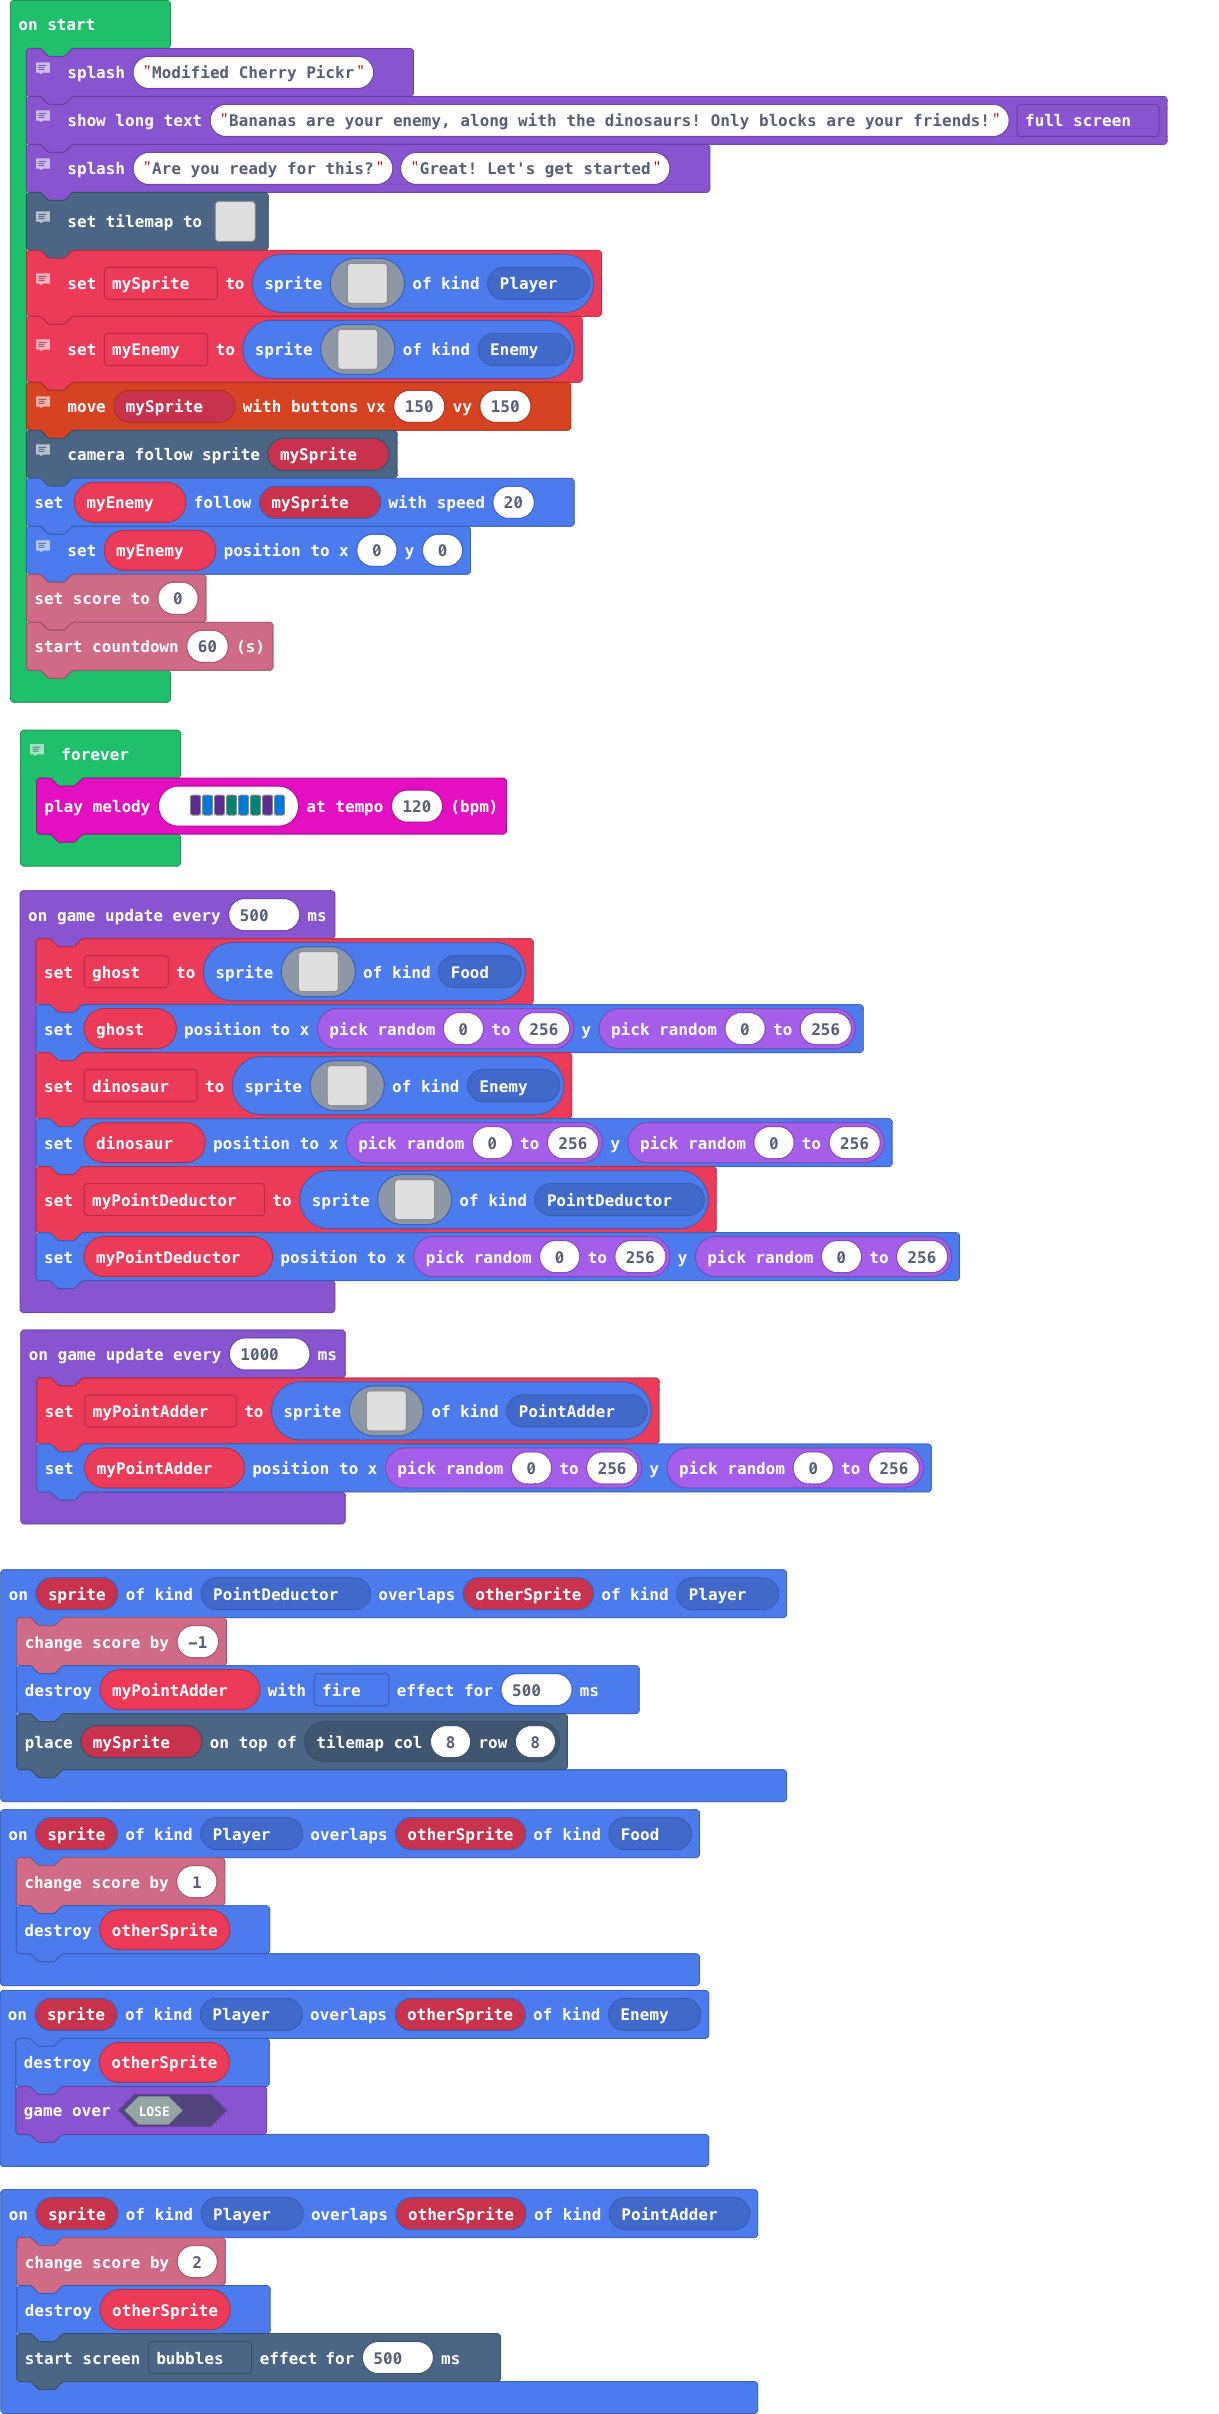
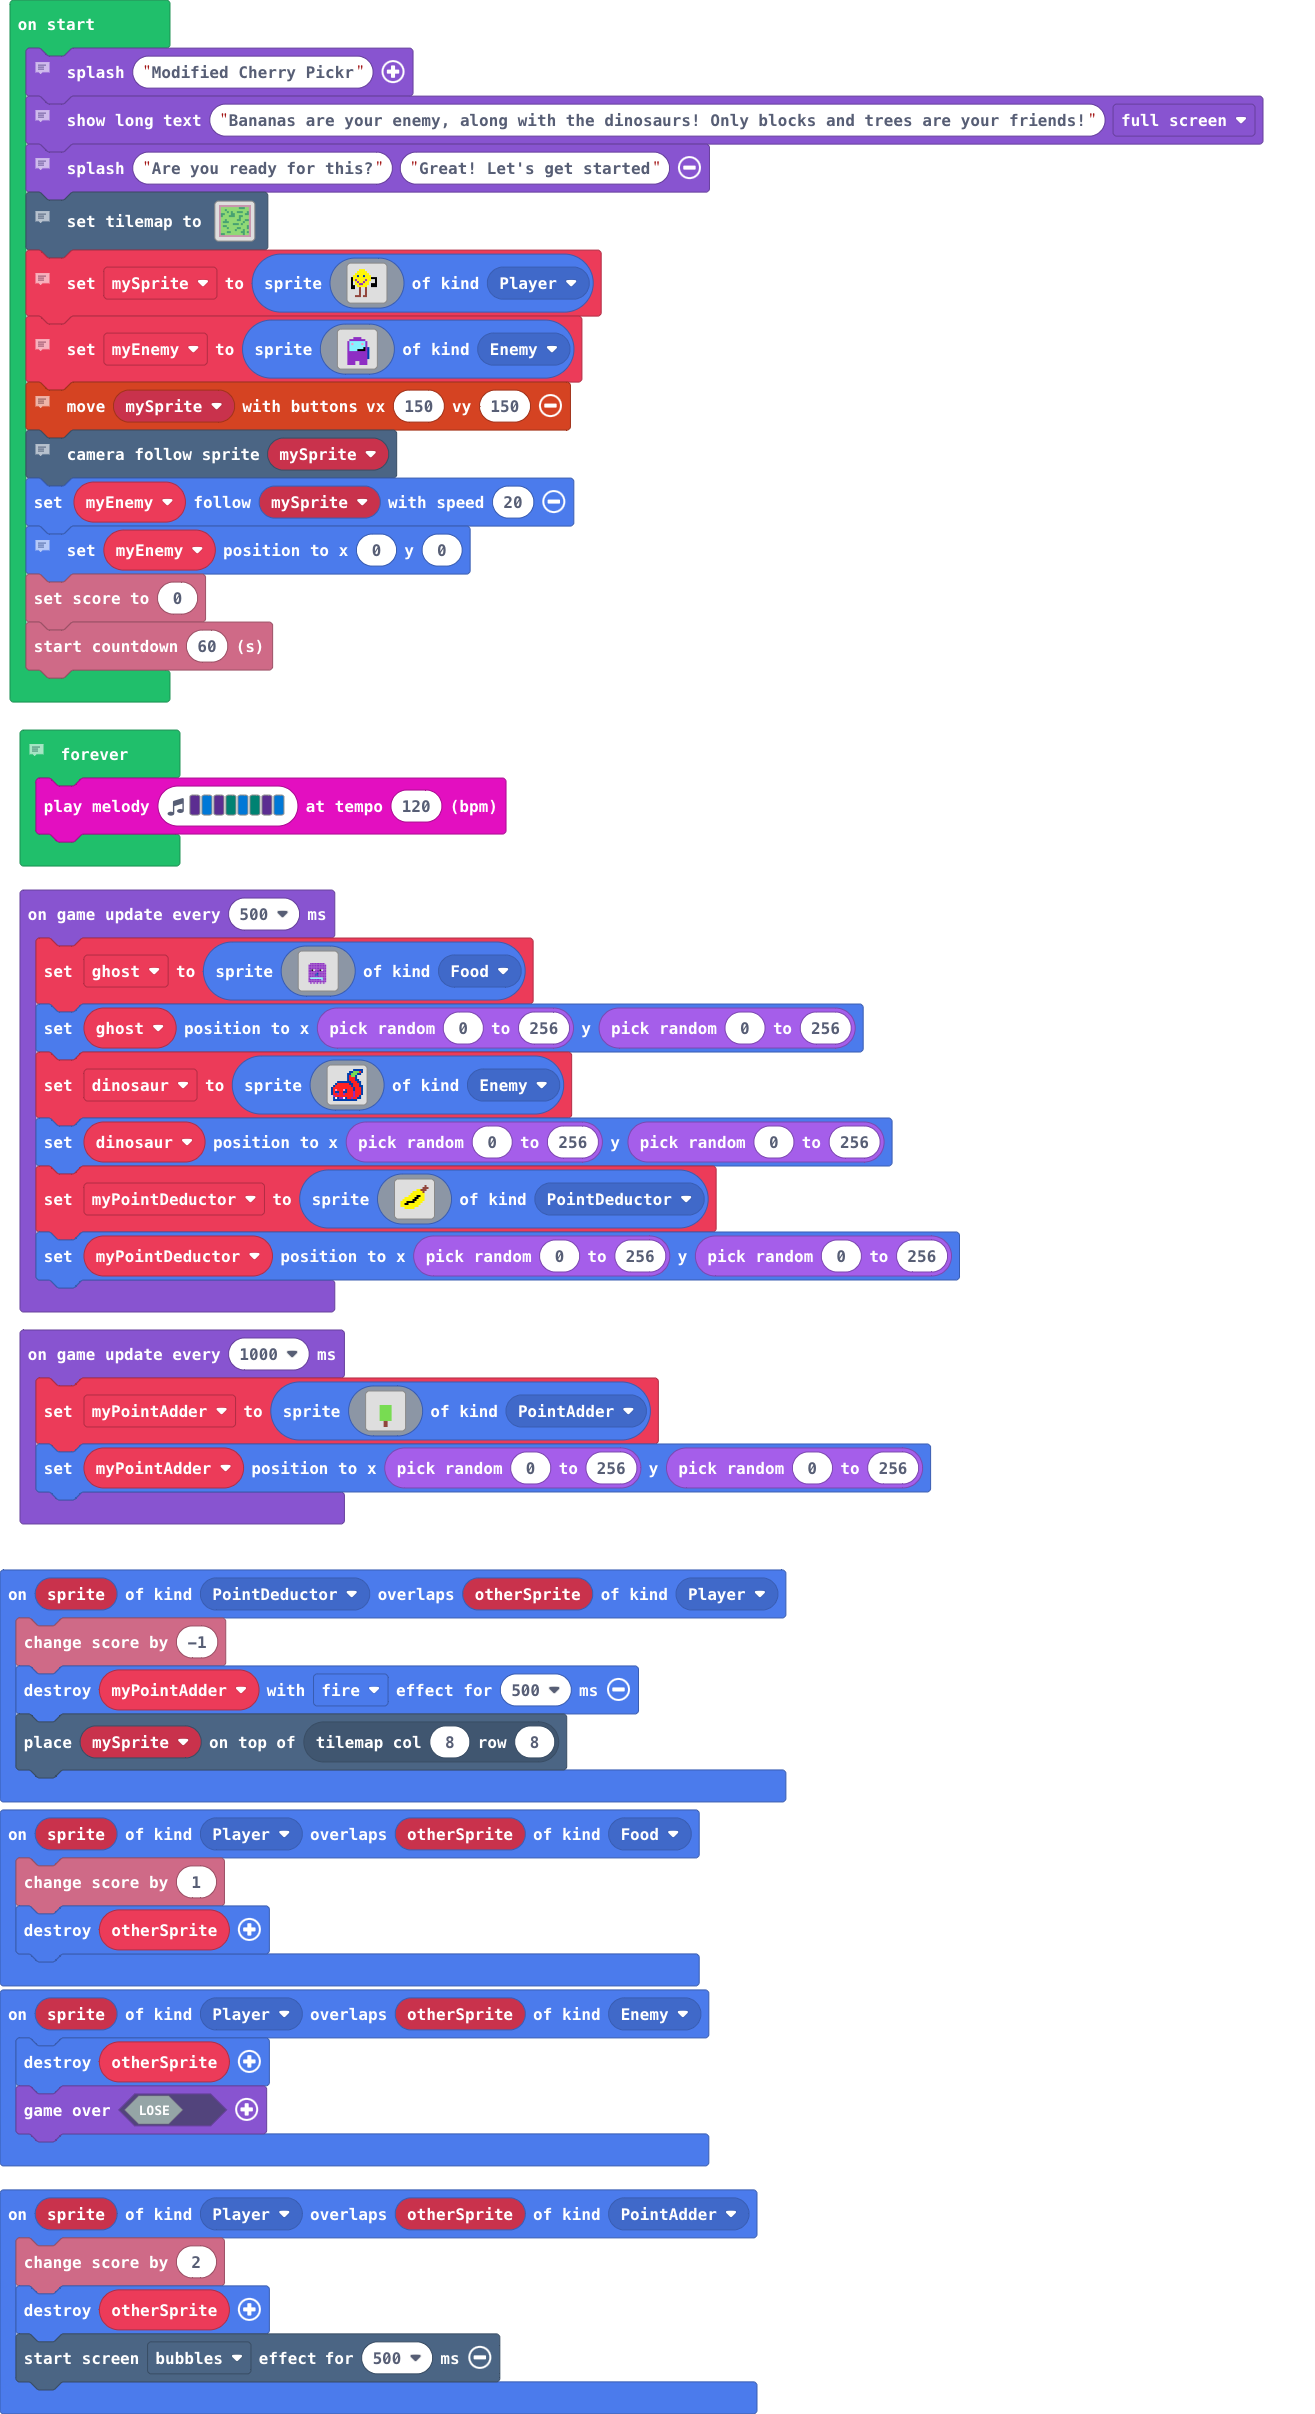
Added “Only blocks and trees” in splash string

diff --git a/tilemap.g.ts b/tilemap.g.ts
@@ -24,6 +24,25 @@ namespace myTiles {
 . . . . . . . . . . . . . . . . 
 . . . . . . . . . . . . . . . . 
 `, [myTiles.transparency16,sprites.builtin.oceanSand0,sprites.castle.tileGrass2,sprites.builtin.forestTiles0], TileScale.Sixteen);
+            case "level2":
+            case "level2":return tiles.createTilemap(hex`1000100000000000000000000000000000000000000000000000000000000000000000000000000000000000000000000000000000000000000000000000000000000000000000000000000000000000000000000000000000000000000000000000000000000000000000000000000000000000000000000000000000000000000000000000000000000000000000000000000000000000000000000000000000000000000000000000000000000000000000000000000000000000000000000000000000000000000000000000000000000000000000000000000000000000000000000000000000000000000000000000000000000000000000000000000000000000`, img`
+. . . . . . . . . . . . . . . . 
+. . . . . . . . . . . . . . . . 
+. . . . . . . . . . . . . . . . 
+. . . . . . . . . . . . . . . . 
+. . . . . . . . . . . . . . . . 
+. . . . . . . . . . . . . . . . 
+. . . . . . . . . . . . . . . . 
+. . . . . . . . . . . . . . . . 
+. . . . . . . . . . . . . . . . 
+. . . . . . . . . . . . . . . . 
+. . . . . . . . . . . . . . . . 
+. . . . . . . . . . . . . . . . 
+. . . . . . . . . . . . . . . . 
+. . . . . . . . . . . . . . . . 
+. . . . . . . . . . . . . . . . 
+. . . . . . . . . . . . . . . . 
+`, [myTiles.transparency16], TileScale.Sixteen);
         }
         return null;
     })

diff --git a/main.ts b/main.ts
@@ -28,7 +28,7 @@ let mySprite: Sprite = null
 // On start, the splash "Modified Cherry Pickr" will appear
 game.splash("Modified Cherry Pickr")
 // Briefly explains the game
-game.showLongText("Bananas are your enemy, along with the dinosaurs! Only blocks are your friends!", DialogLayout.Full)
+game.showLongText("Bananas are your enemy, along with the dinosaurs! Only blocks and trees are your friends!", DialogLayout.Full)
 // Engages the user, asking them if they are ready to play the game
 game.splash("Are you ready for this?", "Great! Let's get started")
 // Tilemap is set to a specially customised map
